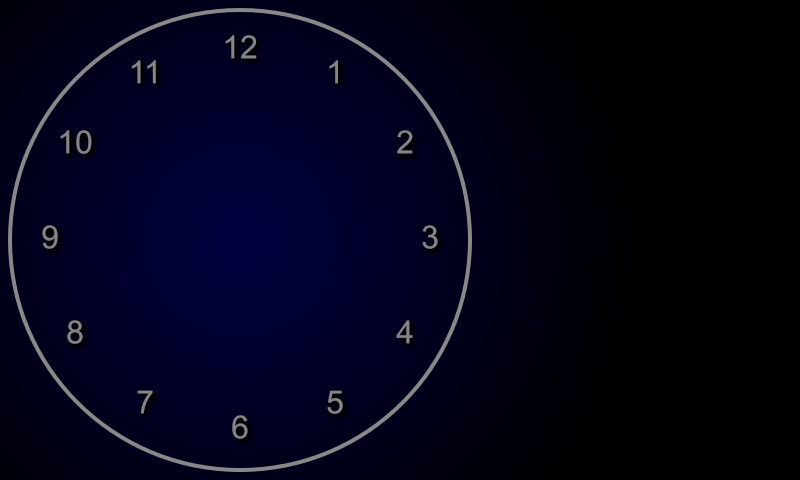
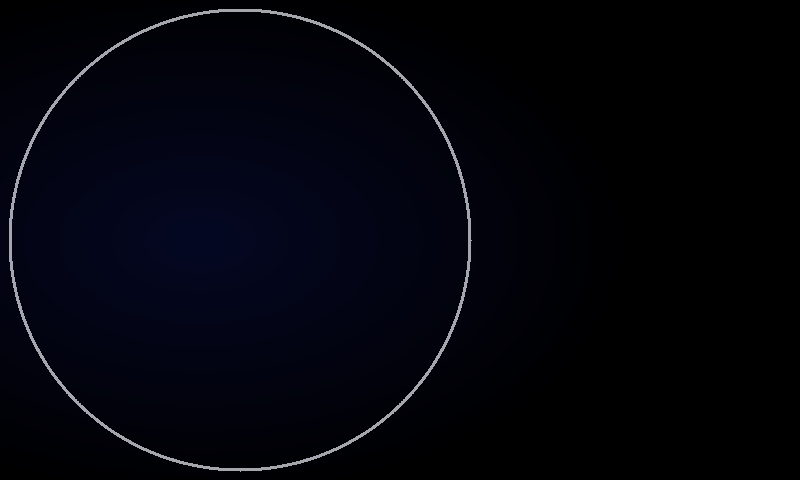
Improve dial readability and fix deploy
- Draw hour numbers programmatically at inner radius (0.72) to avoid
  overlap with longer tick marks
- Regenerate dial.png without baked-in numbers (gradient + circle only)
- Bolder hour ticks (0.82-0.97, 4px) and brighter colors at full opacity
- Stop systemd service before deploying to prevent scp file-busy errors

diff --git a/dr.RpiClock.App/RenderService.cs b/dr.RpiClock.App/RenderService.cs
@@ -18,6 +18,7 @@ public class RenderService(IOptions<RpiClockOptions> options, IPixelRenderer ren
     static readonly Font _fontLarge = SystemFonts.CreateFont("JetBrains Mono", 72, FontStyle.Bold);
     static readonly Font _fontTemp = SystemFonts.CreateFont("JetBrains Mono", 56, FontStyle.Bold);
     static readonly Font _fontWeatherDesc = SystemFonts.CreateFont("JetBrains Mono", 20, FontStyle.Regular);
+    static readonly Font _fontDialNumber = SystemFonts.CreateFont("JetBrains Mono", 28, FontStyle.Regular);
 
     public async Task Run(CancellationToken ct)
     {
@@ -82,9 +83,9 @@ public class RenderService(IOptions<RpiClockOptions> options, IPixelRenderer ren
         {
             double angle = i * Math.PI / 30;
             bool isHour = i % 5 == 0;
-            float innerFactor = isHour ? 0.88f : 0.93f;
+            float innerFactor = isHour ? 0.82f : 0.92f;
             float outerFactor = 0.97f;
-            float thickness = isHour ? 3f : 1.2f;
+            float thickness = isHour ? 4f : 1.5f;
             Color color = isHour ? Colors.TickHour : Colors.TickMinute;
 
             float x1 = centerX + (float)(radius * innerFactor * Math.Cos(angle));
@@ -92,6 +93,21 @@ public class RenderService(IOptions<RpiClockOptions> options, IPixelRenderer ren
             float x2 = centerX + (float)(radius * outerFactor * Math.Cos(angle));
             float y2 = centerY + (float)(radius * outerFactor * Math.Sin(angle));
             image.DrawLine(color, thickness, new PointF(x1, y1), new PointF(x2, y2));
+        }
+
+        // Draw hour numbers inward of the tick marks
+        float numberRadius = radius * 0.72f;
+        for (int h = 1; h <= 12; h++)
+        {
+            double angle = h * Math.PI / 6 - Math.PI / 2; // 12 at top
+            float nx = centerX + (float)(numberRadius * Math.Cos(angle));
+            float ny = centerY + (float)(numberRadius * Math.Sin(angle));
+            image.DrawText(new RichTextOptions(_fontDialNumber)
+            {
+                HorizontalAlignment = HorizontalAlignment.Center,
+                VerticalAlignment = VerticalAlignment.Center,
+                Origin = new PointF(nx, ny),
+            }, h.ToString(), Colors.TickHour);
         }
     }
 
@@ -374,13 +390,13 @@ public class RenderService(IOptions<RpiClockOptions> options, IPixelRenderer ren
 
     static class Colors
     {
-        public static Color HandFill { get; } = new(new Rgba32(210, 210, 220, 240));
-        public static Color HandOutline { get; } = new(new Rgba32(180, 180, 190, 200));
-        public static Color HandGlow { get; } = new(new Rgba32(100, 140, 200, 40));
-        public static Color SecondHand { get; } = new(new Rgba32(220, 50, 50, 255));
+        public static Color HandFill { get; } = new(new Rgba32(230, 230, 240, 255));
+        public static Color HandOutline { get; } = new(new Rgba32(200, 200, 210, 255));
+        public static Color HandGlow { get; } = new(new Rgba32(100, 140, 200, 50));
+        public static Color SecondHand { get; } = new(new Rgba32(230, 50, 50, 255));
 
-        public static Color TickHour { get; } = new(new Rgba32(200, 200, 210, 230));
-        public static Color TickMinute { get; } = new(new Rgba32(150, 150, 170, 150));
+        public static Color TickHour { get; } = new(new Rgba32(220, 220, 230, 255));
+        public static Color TickMinute { get; } = new(new Rgba32(160, 160, 180, 200));
 
         public static Color HubOuter { get; } = new(new Rgba32(80, 80, 100, 255));
         public static Color HubMiddle { get; } = new(new Rgba32(160, 160, 180, 255));
